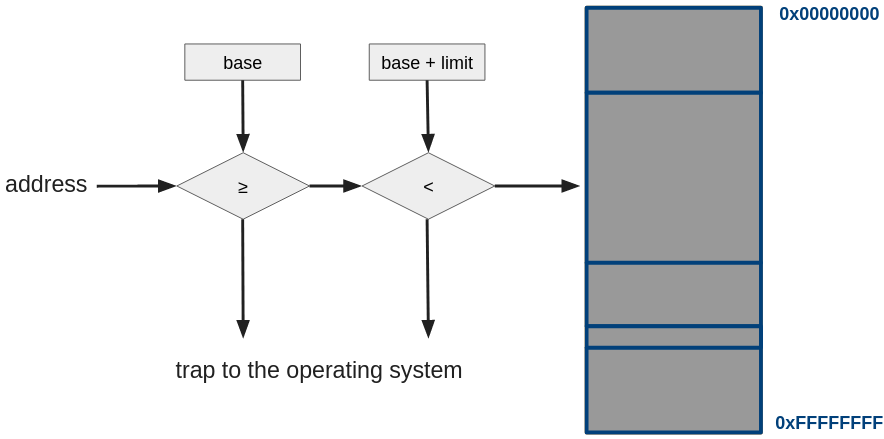
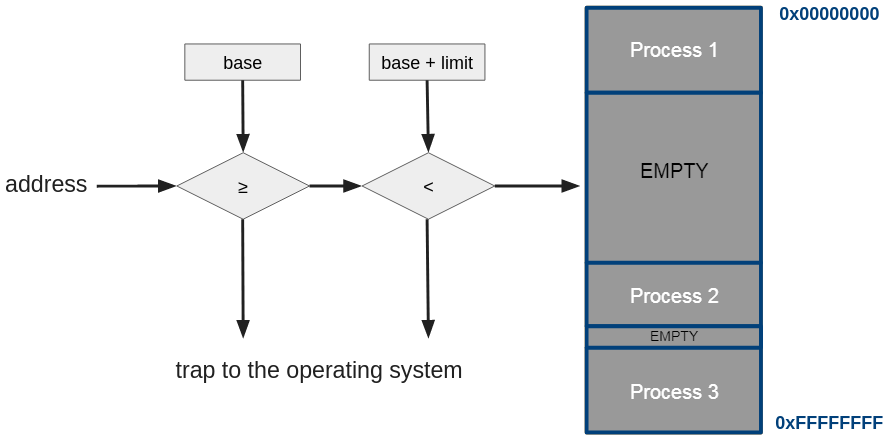
Update chapter 9, part 1

diff --git a/content/ch9-memory/memory.md b/content/ch9-memory/memory.md
@@ -68,7 +68,7 @@ We can see that with chunking, the address space for a certain program can (and 
 
 As such, this memory mapping needs to be done at **load time**, when the OS takes a program and turns it into a process instance. However, for the compiler to generate assembly instructions, it still needs to know the addresses of the variables/functions, as we've said above! It seems we have a contradiction here...
 
-The way this is solved, is by having the compiler generate **relative/logical/virtual addresses**. The compiler for example pretends that the program will always be loaded at address 0x0 and places all variables/functions relative to 0x0. Then, when the program is executed, the addresses can just be increment with the process chunk's **base address** to get the real, physical address in RAM (so physical adress = compiler-generated/logical/virtual address + base address). 
+The way this is solved, is by having the compiler generate **relative/logical/virtual addresses**. The compiler for example pretends that the program will always be loaded at address 0x0 and places all variables/functions relative to 0x0. Then, when the program is executed, the addresses can just be incremented with the process chunk's **base address** to get the real, physical address in RAM (so physical adress = compiler-generated/logical/virtual address + base address). 
 
 As such, we can see that we have **two different address spaces**: the logical/virtual address space (always starting at 0x0 for each process) and the physical address space (where each process starts at a different offset). 
 
@@ -81,15 +81,19 @@ In practice, this can even be done in hardware outside of the CPU, where a separ
 
 Chunking and load-time address binding works, but it has some downsides. For example, we would need to know all the variables/functions that will be used at load time. While we know more about them than at compile time (as the link step is done now), we often still don't know everything yet. This is for example the case when using dynamically loaded external software libraries (so-called "dynamically linked libraries" or DLLs), which is something you typically do want to enable broad code re-use. These DLLs can be loaded **during the execution of a process** as needed, which is later than the load time we've considered. 
 
-A more important downside of chunking however is that **we would have to assign a fixed-size chunk to each process**. This isn't so much a problem for text/data/bss/stack, but more for the heap. We don't really know how much heap memory a program will want to use up front, and this often also depends on how the program is used (sometimes you'll use less memory, sometimes more). You can't also just give each program a huge amount of memory (say 1GB of heap), as that would severely limit the amount of processes you could run at the same time. 
+A more important downside of chunking however is that **we would have to assign a fixed-size chunk to each process**. This isn't so much a problem for text/data/bss/stack, but more for the heap. We don't really know how much heap memory a program will want to use up front, and this often also depends on how the program is used (sometimes you'll use less memory, sometimes more). You can't also just give each program a huge amount of memory (say 1GB of heap), as that would severely limit the amount of processes you could run at the same time. As such, you would again have to rely on the programmer to somehow give an indication of program size, or for example learn it from previous executions of the program. 
+
+Finally, there is the problem of **external segmentation**. As more and more programs are loaded into memory, the available space is reduced. Luckily, as programs are stopped/done, they also release the space they took up. As such, after a while, there will be gaps in the physical memory where older programs were removed. The thing is: those gaps are **not always large enough to entirely fit a newly started program**! As such, even though conceptually there is enough memory free when we regard the entire memory space, there is not enough -contiguous- memory to fit a new process. This is called "external" fragmentation, as the fragmentation happens *outside of the space allocated to processes*. We will discuss internal fragmentation later. 
+
+{{% figure src="/img/mem/external_fragmentation.png" title="External fragmentation with chunking" %}}
 
 It is clear we need a more advanced setup in practice. 
 
 ## Segmentation
 
-The concept of segmentation is pretty simple: instead of reserving a single, large chunk for each process, we will instead **reserve several, smaller chunks (called segments)**. For example, we can have a chunk for the text section, for data, bss, and the stack. And then we can have one (or more!) segments for the heap. 
+Segmentation is a more flexible way than chunking of loading processes into memory. The concept of segmentation is pretty simple: instead of reserving a single, large chunk for each process, we will instead **reserve several, smaller chunks (called segments)**. For example, we can have a chunk for the text section, for data, bss, and the stack. And then we can have one (or more!) segments for the heap. 
 
-This nicely solves the problems of chunking: we can now create additional segments when loading new libraries/DLLs at runtime and we don't need to reserve huge amounts of memory for each process up-front: we can just add (and remove!) segments as needed! 
+This nicely solves the problems of chunking: we can now appropriately size segments when loading new libraries/DLLs at runtime and we don't need to reserve huge amounts of memory for each process up-front: we can just add (and remove!) segments as needed! 
 
 Additionally, it provides us with extra benefits, such as the fact that the **segments for a single process no longer need to be in contiguous memory blocks!**. This is illustrated by the images below:
 
@@ -103,30 +107,32 @@ Additionally, it provides us with extra benefits, such as the fact that the **se
   </div>
 </div>
 
-This is a very important characteristic, as it helps deal with so-called **external fragmentation** (up to a certain point). As more and more programs are loaded into memory, the available space is reduced. Luckily, as programs are stopped/done, they also release the space they took up. As such, after a while, there will be gaps in the physical memory where older programs were removed. The thing is: those gaps are **not always large enough to entirely fit a newly started program**! As such, non-contiguous segmentation allows the new program to use several smaller gaps instead!
+This is a very important characteristic, as it helps deal with the aforementioned **external fragmentation** (at least up to a certain point). Even though the full process cannot fit in any given gap, its individual segments can be distributed across several gaps as needed. 
 
-TODO: external fragmentation example image!
-
+{{% figure src="/img/mem/external_fragmentation_2.png" title="External fragmentation is partially solved with segmentation" %}}
 
 ### Address Binding
 
-Additionally, segmentation allows us to do the memory mapping not at load time (as with chunking), but much more dynamically at **execution time**: segments can be created (or removed) and placed as-needed by the OS. The compiler however can of course still just use a logical address space that -is- contiguous: that makes it much easier for us to reason about programs and even assembly, as we don't need to worry about the segmentation specifics.
+Additionally, segmentation allows us to do the memory mapping not at load time (as with chunking), but also much more dynamically at **execution time**: segments can be created (or removed) and placed as-needed by the OS.
 
 However, placing multiple segments at various locations in the physical memory does mean it now becomes more difficult to find the correct physical address given a logical/virtual address. A single relocation register is no longer enough (as we also no longer have a simple base address). Instead, we need a **segment table** that tracks the different segments and where exactly they can be found in physical memory. So, instead of having a single base address and a chunk limit, each individual segment has its own base address and limit offset, all of which are stored in the segment table. Again, for performance reasons this is often done in the separate MMU chip, which might look a bit like this: 
 
 {{% figure src="/img/mem/ss_mem_segmhw.png" title="Segmentation hardware" %}}
-
 {{% dinobook %}}
 
-The logical address that the programmer sees (which is generated by the compiler) now *secretly* consists of two parts: a segment number (s) and an offset (d). The segment number (s) will be used as an address in the segment table. Through this table the base address of the segment can be found. The offset number (d) will be used to define an offset within this segment and is simply added to the base address to get the final, physical address. 
 
-If the sum of the base address and the offset falls within the segment limit, everything is fine. Otherwise the operating system will catch this error.
+This also means that we no longer have a single contiguous logical/virtual address space, but instead multiple smaller ones (one for each segment). In practice, we can still represent addresses with a single number however, which  *secretly* consists of two parts: a segment number (s) and an offset (d). The segment number (s) will be used as an index into the segment table. The value at that index indicates the base address of that segment. The offset number (d) will be used to define an offset within this segment and is simply added to the base address to get the final, physical address. 
+
+As with chunking, if the sum of the base address and the offset falls within the segment limit, everything is fine. Otherwise the operating system will catch this error.
 
 {{% task %}}
 What, *oh what*, could be the name of the error that the OS produces if the sum of the base address and the offset does **not** fall within the segment limit ?
 {{% /task %}}
 
-### Problems with Segmenation
+### Problems with Segmentation
 
-TODO: external fragmentation
-TODO: overhead of tracking segment sizes and checking limits
+While segmentation already improves a lot on chunking, it still suffers from a few problems. 
+
+In practice, external segmentation can still easily occur in modern systems with hundreds of running processes. This is because the **individual segments are not equally sized**, and gaps (created by removed/stopped segments) can thus easily be smaller than what is needed for a given segment. As such, the OS needs to keep track of **a list of open gaps and their size**. Every time a process needs memory for a segment, the OS would need to **loop over the entire gap list** to determine the most appropriate one, a list which can get very long quite quickly. This overhead can get quite substantial in practice. The OS could instead optimize and look for a "good enough" gap, but this in practice only worsens external fragmentation. Other techniques can be considered, such as compaction: this would "shift" segments of running processes together in memory to fill smaller gaps, making larger gaps available. While possible, this can get highly complex, as the logical addresses would also have to be re-generated. 
+
+As such, even segmentation isn't our "final solution" to this problem. But before we discuss the real deal, let's do some exercises. 

diff --git a/content/ch9-memory/lab1_segfault.md b/content/ch9-memory/lab1_segfault.md
@@ -6,10 +6,79 @@ weight: 2
 
 {{<figure src="https://imgs.xkcd.com/comics/compiler_complaint.png" title="source: xkcd.com">}}
 
+## Segfault this
+
+* For each of the programs below:
+    * 1) Guess first if they will give a segmentation fault and where exactly and **why**
+    * 2) Compile and execute them
+    * 3) Were your guesses in the first step correct or not? Why (not)?
+
+```C
+#include <stdio.h>
+
+int main(void) {
+
+    int* i = NULL;
+    *(i) = 666;
+
+	return 0;
+}
+```
+
+```C
+#include <stdio.h>
+
+int main(void) {
+
+    int i = 666;
+    *(&i - 10000) = 777;
+
+	return 0;
+}
+```
+
+```C
+#include <stdio.h>
+
+int main(void) {
+
+    int i = 666;
+    *(&i + 10000) = 777;
+
+	return 0;
+}
+```
+* Try and change the number "10000" to higher and lower numbers in the previous two code samples to help make sense of what's happening.
+
+```C
+#include <stdio.h>
+#include <stdlib.h>
+
+int main(void) {
+
+    int *i = (int *) malloc(26 * sizeof(int));
+    
+    *i = 20;
+    
+    *(i + 27) = 30;
+    
+    free(i);
+    
+    *i = 40;
+
+	return 0;
+}
+```
+* Try and change the number "100" to "26" and the number "101" to "27" and run the program again. Do you get the same results? 
 
 ## <s>X</s> A to the Z
 
-* Run the program below and verify that it runs without errors
+As we've seen in the previous exercises, segmentation faults don't always happen when we expect them to.
+Let's explore this a bit deeper here. 
+
+* Again, first guess if the program below will give a segmentation fault or not (and why!)
+* Compile and run the program and verify your guess
+
 ```C
 #include <stdio.h>
 
@@ -32,6 +101,10 @@ int main(void) {
 }
 ```
 
-* Recompile the code above, but verify that you have the ```-0s``` option added. This compiler flag sets the optimisation towards size. What do you learn ?
+* Now, recompile the code above, but verify that you have the ```-0s``` option added for gcc. This compiler flag sets the optimisation towards size, but also adds a few more interesting things. Does that make a difference? 
 
-* Increase the **WRITE_SIZE** to 27. Compile and run again. Any errors ? If so, what type of error could this be ?
+* Now increase the **WRITE_SIZE** to 27. Compile and run again, with and without the ```-0s``` option. Any errors? If so, what type of error could this be?
+
+* Compare this to the last code sample of the first exercise above. What is different about which memory we are trying to access here? 
+
+* Do some research online until you can explain what a "stack canary" is and why it's useful. 

diff --git a/content/appendix/management.md b/content/appendix/management.md
@@ -17,13 +17,13 @@ draft: true
 * Week 5: 15/03, 16/03: 1.5h + 3h
   * 1.5h: **ch5** Intro to OS - Robin
   * 3h: **ch6** Processes - Robin
-  * announcement of second exercise (deadline: TBD)
+  * announcement of second exercise (deadline: 1 April 9AM)
 
 * Week 6: 22/03: 1.5h + 3h
   * **ch6** Threads - Robin
 * Week 7: 29/03, 30/03: 1.5h + 3h
   * **ch7** CPU scheduling - Robin
-  * announcement of third exercise (deadline: TBD)
+  * announcement of third exercise (deadline: 29 April 9AM)
 
 * Week 8 : Easter holidays
 * Week 9 : Easter holidays
@@ -33,13 +33,13 @@ draft: true
 
 * Week 11: 26/04, 27/04: 1.5h + 3h
   * **ch9** Memory Management - Robin
-  * announcement of the fourth exercise (deadline: TBD)
+  * announcement of the fourth exercise (deadline: 17 May 9AM)
 
 * Week 12: 03/05: 1.5h + 3h 
-  * Capita Selecta
+  * **Capita Selecta** - Robin
 
 * Week 13: 10/05, 11/05: 1.5h + 3h 
-  * Capita Selecta
+  * **Threads**: group discussion of solutions to producer/consumer problems and exercise 3 ("responsiecollege") - Robin
 
 * Week 14: 17/05: 1.5h + 3h 
-  * Capita Selecta
+  * No class
